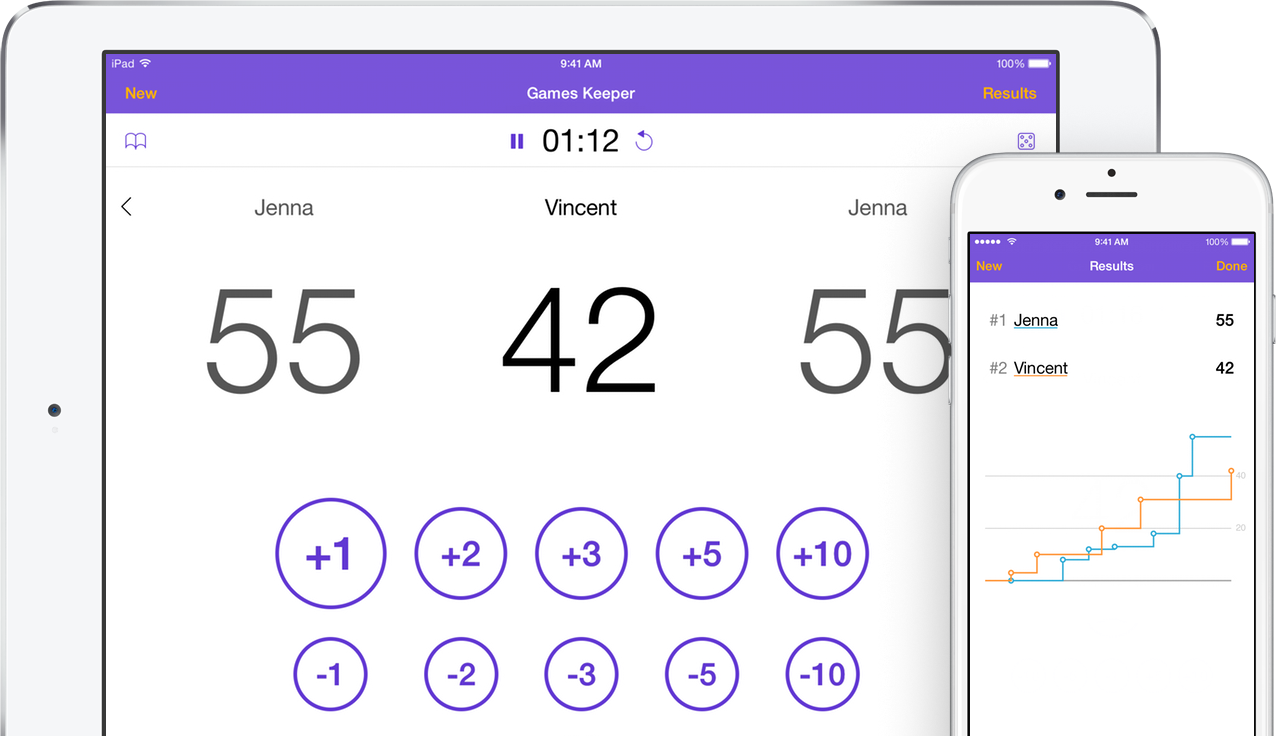
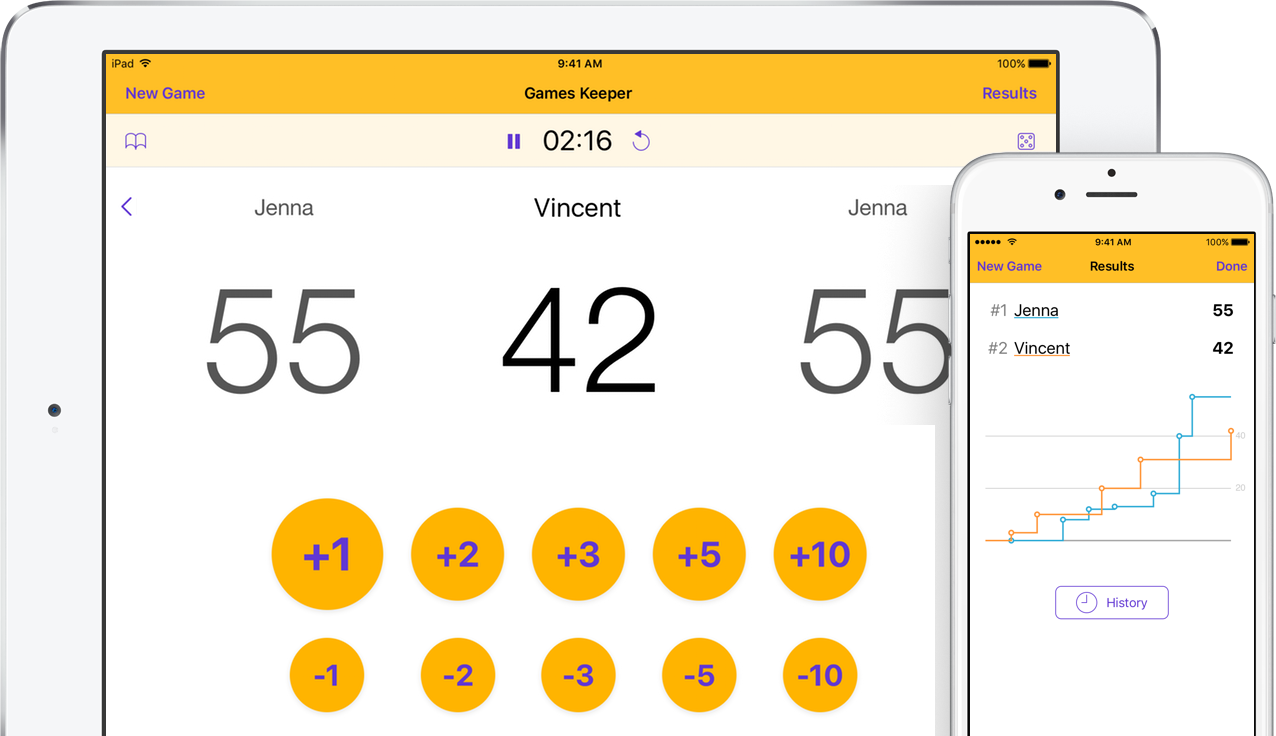
Update for v2.0

diff --git a/releasenotes.html b/releasenotes.html
@@ -18,6 +18,20 @@
     <h1>Games Keeper Release Notes</h1>
     <div><a href="http://www.studioamanga.com/gameskeeper">http://www.studioamanga.com/gameskeeper</a></div>
         <section>
+      <h2>2.0</h2>
+      <time datetime="2016-2-24">24 February 2016</time>
+      <ul>
+        <li class="major">New icon</li>
+        <li class="major">New interface colors</li>
+        <li class="major">Updated New Player screen with suggestions</li>
+        <li class="major">Updated New Game screen with options (Starting Points, Big Scores mode)</li>
+        <li class="major">iPad multitasking support (Slide Over, Split View)</li>
+        <li>Fixed crash when deleting player with name being edited</li>
+        <li>Fixed crash when rendering player view with unexpected index</li>
+
+      </ul>
+    </section>
+    <section>
       <h2>1.11</h2>
       <time datetime="2016-1-22">22 January 2016</time>
       <ul>

diff --git a/index.html b/index.html
@@ -98,7 +98,7 @@
         <br>
         <a href='releasenotes'>Release Notes</a>
         <br>
-        Made by Studio AMANgA 2013-2015
+        Made by Studio AMANgA 2013–2016
       </p>
     </footer>
     <script>
